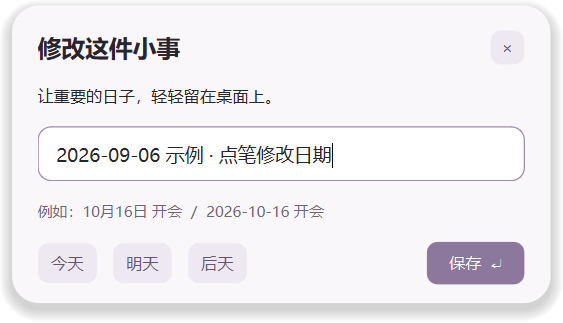
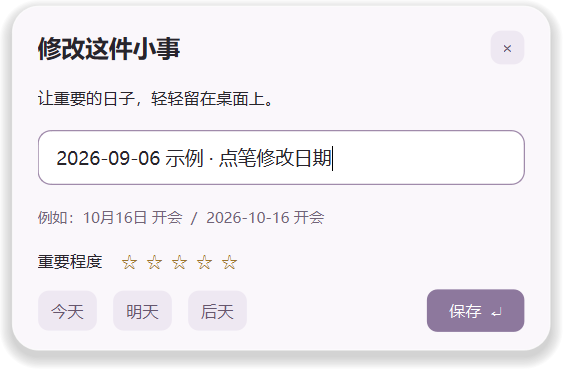
Add editable five-star importance and compact countdown layout

diff --git a/main.py b/main.py
@@ -47,6 +47,8 @@ def load_data():
         raise ValueError("任务文件格式不正确")
     for task in data["tasks"]:
         date.fromisoformat(task["date"])
+        if type(task.get('importance', 0)) is not int or not 0 <= task.get('importance', 0) <= 5:
+            raise ValueError('重要程度必须是0到5颗星')
         if not isinstance(task["title"], str) or not isinstance(task.get("c", 0), int):
             raise ValueError("任务内容格式不正确")
     pos = data.get("pos")
@@ -245,8 +247,46 @@ class CompleteButton(QPushButton):
             p.drawRoundedRect(QRectF(2, 3, 26, 28), 8, 8)
 
 
+class Stars(QWidget):
+    def __init__(self, value=0, on_change=None):
+        super().__init__()
+        self.value = value
+        self.on_change = on_change
+        row = QHBoxLayout(self)
+        row.setContentsMargins(0, 0, 0, 0)
+        row.setSpacing(1)
+        self.buttons = []
+        for number in range(1, 6):
+            button = QPushButton()
+            button.setAutoDefault(False)
+            button.setFixedSize(19, 20)
+            button.setCursor(Qt.PointingHandCursor)
+            button.setCheckable(True)
+            button.setAccessibleName(f'重要程度 {number} 星')
+            button.setToolTip(f'标为 {number} 星；再次点击当前星级可清除')
+            button.setStyleSheet('QPushButton { padding: 0; border: none; border-radius: 4px; background: transparent; color: #9A742F; font-size: 16px; } QPushButton:hover,QPushButton:focus { background: rgba(255,255,255,150); }')
+            button.clicked.connect(lambda checked=False, n=number: self.choose(n))
+            row.addWidget(button)
+            self.buttons.append(button)
+        self.setFixedSize(99, 20)
+        self.set_value(value)
+
+    def set_value(self, value):
+        self.value = value
+        for number, button in enumerate(self.buttons, 1):
+            button.setText('★' if number <= value else '☆')
+            button.setChecked(number <= value)
+
+    def choose(self, number):
+        value = 0 if self.value == number else number
+        if self.on_change is None or self.on_change(value):
+            self.set_value(value)
+        else:
+            self.set_value(self.value)
+
+
 class Card(DragSurface):
-    def __init__(self, task, on_done, on_edit):
+    def __init__(self, task, on_done, on_edit, on_rate):
         super().__init__()
         self.task = task
         self.on_done = on_done
@@ -255,18 +295,24 @@ class Card(DragSurface):
         self._fading = False
         row = QHBoxLayout(self)
         row.setContentsMargins(23, 8, 27, 17)
-        row.setSpacing(10)
+        row.setSpacing(7)
         self.dot = CompleteButton(task["title"])
         self.dot.clicked.connect(self.complete)
         row.addWidget(self.dot)
         self.count = label(size=11.5, bold=True)
-        self.count.setFixedWidth(112)
         row.addWidget(self.count)
         divider = label("│", 10)
         divider.setStyleSheet("color: rgba(75,65,83,45); background: transparent;")
         row.addWidget(divider)
         self.title = label(size=11.5, bold=True)
-        row.addWidget(self.title, 1)
+        content = QWidget()
+        details = QVBoxLayout(content)
+        details.setContentsMargins(0, 0, 0, 0)
+        details.setSpacing(0)
+        details.addWidget(self.title, 0, Qt.AlignLeft)
+        self.stars = Stars(task.get('importance', 0), lambda value: on_rate(self.task, value))
+        details.addWidget(self.stars, 0, Qt.AlignLeft)
+        row.addWidget(content, 1)
         self.edit_button = QPushButton("✎")
         self.edit_button.setFixedSize(24, 30)
         self.edit_button.setAccessibleName(f"编辑：{task['title']}")
@@ -279,10 +325,12 @@ class Card(DragSurface):
 
     def refresh(self):
         countdown = days_text(self.task["date"])
-        self.count.setText(QFontMetrics(self.count.font()).elidedText(countdown, Qt.ElideRight, 112))
+        count_width = min(118, QFontMetrics(self.count.font()).horizontalAdvance(countdown) + 2)
+        self.count.setFixedWidth(count_width)
+        self.count.setText(QFontMetrics(self.count.font()).elidedText(countdown, Qt.ElideRight, count_width))
         self.setToolTip(f"{self.task['title']}\n{countdown} · {self.task['date']}\n双击修改日期和内容")
         self.title.setText(QFontMetrics(self.title.font()).elidedText(self.task["title"], Qt.ElideRight,
-                                                                   max(30, self.width() - 274)))
+                                                                   max(30, self.width() - count_width - 150)))
 
     def mouseDoubleClickEvent(self, event):
         if event.button() == Qt.LeftButton and not self._fading:
@@ -376,7 +424,7 @@ class Group(DragSurface):
             old.deleteLater()
         tasks = sorted(self.data["tasks"], key=lambda task: task["date"])
         for task in tasks:
-            self.cards_lay.addWidget(Card(task, self.remove, self.edit_requested.emit))
+            self.cards_lay.addWidget(Card(task, self.remove, self.edit_requested.emit, self.set_importance))
         if not tasks:
             empty = label("今天也要从容一点。\n点一下 +，记下下一件事", 10.5)
             empty.setFixedHeight(80)
@@ -389,9 +437,11 @@ class Group(DragSurface):
         self.scroll.setFixedHeight(height)
         self.setFixedHeight(67 + height + 48)
 
-    def add(self, iso, title):
+    def add(self, iso, title, importance=0):
         sequence = self.data.get("seq", 0) + 1
-        task = {"id": uuid.uuid4().hex, "date": iso, "title": title, "c": sequence % len(COLORS)}
+        if type(importance) is not int or not 0 <= importance <= 5:
+            raise ValueError('重要程度必须是0到5颗星')
+        task = {"id": uuid.uuid4().hex, "date": iso, "title": title, "c": sequence % len(COLORS), 'importance': importance}
         proposed = dict(self.data, seq=sequence, tasks=self.data["tasks"] + [task])
         if not save_data(proposed):
             return False
@@ -406,13 +456,26 @@ class Group(DragSurface):
             self.data.update(proposed)
         self.rebuild()
 
-    def update_task(self, task, iso, title):
-        replacement = dict(task, date=iso, title=title)
+    def update_task(self, task, iso, title, importance=None):
+        importance = task.get('importance', 0) if importance is None else importance
+        if type(importance) is not int or not 0 <= importance <= 5:
+            raise ValueError('重要程度必须是0到5颗星')
+        replacement = dict(task, date=iso, title=title, importance=importance)
         proposed = dict(self.data, tasks=[replacement if item is task else item for item in self.data['tasks']])
         if not save_data(proposed):
             return False
         self.data.update(proposed)
         self.rebuild()
+        return True
+
+    def set_importance(self, task, value):
+        if type(value) is not int or not 0 <= value <= 5:
+            raise ValueError('重要程度必须是0到5颗星')
+        replacement = dict(task, importance=value)
+        proposed = dict(self.data, tasks=[replacement if item is task else item for item in self.data['tasks']])
+        if not save_data(proposed):
+            return False
+        task['importance'] = value
         return True
 
     def check_day(self):
@@ -455,7 +518,7 @@ class InputBox(QDialog):
         self.setWindowTitle("添加倒计时")
         self.setWindowFlags(Qt.FramelessWindowHint | Qt.Tool | Qt.WindowStaysOnTopHint)
         self.setAttribute(Qt.WA_TranslucentBackground)
-        self.setFixedSize(450, 258)
+        self.setFixedSize(450, 296)
         layout = QVBoxLayout(self)
         layout.setContentsMargins(30, 24, 30, 30)
         layout.setSpacing(12)
@@ -479,6 +542,12 @@ class InputBox(QDialog):
         layout.addWidget(self.edit)
         self.hint = label("例如：10月16日 开会  /  2026-10-16 开会", 9)
         layout.addWidget(self.hint)
+        rating_row = QHBoxLayout()
+        rating_row.addWidget(label('重要程度', 10))
+        self.stars = Stars()
+        rating_row.addWidget(self.stars)
+        rating_row.addStretch()
+        layout.addLayout(rating_row)
         bottom = QHBoxLayout()
         for word in ("今天", "明天", "后天"):
             chip = QPushButton(word)
@@ -516,7 +585,7 @@ class InputBox(QDialog):
             self.hint.setStyleSheet("color: #A55461; background: transparent;")
             self.edit.setFocus()
             return
-        saved = self.on_update(self.editing_task, *task) if self.editing_task is not None else self.on_create(*task)
+        saved = self.on_update(self.editing_task, *task, self.stars.value) if self.editing_task is not None else self.on_create(*task, self.stars.value)
         if saved:
             self.accept()
 
@@ -530,6 +599,7 @@ class InputBox(QDialog):
         area = screen.availableGeometry()
         self.move(area.center() - self.rect().center())
         self.editing_task = task
+        self.stars.set_value(task.get('importance', 0) if task else 0)
         self.heading.setText("修改这件小事" if task else "记下一件小事")
         self.setWindowTitle("编辑倒计时" if task else "添加倒计时")
         self.submit.setText("保存  ↵" if task else "添加  ↵")

diff --git a/test_widget.py b/test_widget.py
@@ -54,6 +54,19 @@ def check():
         assert [c.task["date"] for c in cards] == sorted(t["date"] for t in data["tasks"])
         assert "…" in cards[-1].title.text()
         assert cards[-1].task["title"] in cards[-1].toolTip()
+        # 五星可直接改、清除，保存失败不变；日期排序不受星级影响。
+        original_dates = [c.task['date'] for c in cards]
+        QTest.mouseClick(cards[1].stars.buttons[4], Qt.LeftButton)
+        assert cards[1].stars.value == 5 and cards[1].task['importance'] == 5
+        assert widget.load_data()['tasks'] == data['tasks']
+        QTest.mouseClick(cards[1].stars.buttons[1], Qt.LeftButton)
+        assert cards[1].stars.value == 2
+        with patch.object(widget, 'save_data', return_value=False):
+            QTest.mouseClick(cards[1].stars.buttons[3], Qt.LeftButton)
+        assert cards[1].stars.value == 2 and cards[1].task['importance'] == 2
+        assert [c.task['date'] for c in cards] == original_dates
+        QTest.mouseClick(cards[1].stars.buttons[1], Qt.LeftButton)
+        assert cards[1].stars.value == 0
         group.grab().save(str(Path(__file__).with_name("preview.png")))
         box.popup()
         box.grab().save(str(Path(__file__).with_name("preview-input.png")))
@@ -68,6 +81,7 @@ def check():
         original = card.task
         QTest.mouseClick(card.edit_button, Qt.LeftButton)
         assert box.editing_task is original and box.submit.text().startswith('保存')
+        QTest.mouseClick(box.stars.buttons[3], Qt.LeftButton)
         box.edit.setText('2026-02-30 无效编辑')
         QTest.keyClick(box.edit, Qt.Key_Return)
         assert box.isVisible() and original in data['tasks']
@@ -75,6 +89,7 @@ def check():
         QTest.keyClick(box.edit, Qt.Key_Return)
         assert not box.isVisible() and len(data['tasks']) == 4
         assert group.cards_lay.itemAt(3).widget().task['title'] == '已改日期与内容'
+        assert group.cards_lay.itemAt(3).widget().task['importance'] == 4
         assert group.cards_lay.itemAt(3).widget().count.text().startswith('还有')
         edited = group.cards_lay.itemAt(3).widget().task
         box.popup(edited)

diff --git a/README.md b/README.md
@@ -6,7 +6,7 @@
 
 一个简单、离线、带小猫的 Windows 桌面倒计时浮窗。安装后就能用。
 
-[![下载 Windows 安装包](https://img.shields.io/badge/下载_Windows_安装包-猫猫倒计时-927CA3?style=for-the-badge&logo=windows&logoColor=white)](https://github.com/aijieli1/cat-countdown/releases/latest/download/CatCountdown-Setup-1.0.0-Windows-x64.exe)
+[![下载 Windows 安装包](https://img.shields.io/badge/下载_Windows_安装包-猫猫倒计时-927CA3?style=for-the-badge&logo=windows&logoColor=white)](https://github.com/aijieli1/cat-countdown/releases/latest/download/CatCountdown-Setup-1.1.0-Windows-x64.exe)
 
 [所有版本](https://github.com/aijieli1/cat-countdown/releases) · [反馈问题](https://github.com/aijieli1/cat-countdown/issues) · [English](#english)
 
@@ -16,7 +16,7 @@
 
 ## 下载，安装，就在桌面上
 
-1. **[下载 Windows 安装包](https://github.com/aijieli1/cat-countdown/releases/latest/download/CatCountdown-Setup-1.0.0-Windows-x64.exe)**。
+1. **[下载 Windows 安装包](https://github.com/aijieli1/cat-countdown/releases/latest/download/CatCountdown-Setup-1.1.0-Windows-x64.exe)**。
 2. 双击，点 **安装**。不需要 Python、不需要注册、不需要管理员权限。
 3. 猫猫和 **三条明确标注“示例”的任务** 出现在桌面上。直接改成自己的事情就好。
 
@@ -29,6 +29,7 @@
 | 你想做什么 | 怎么操作 |
 | --- | --- |
 | 记下一件事 | 点 **＋**，或者按 **Ctrl + Alt + T** |
+| 标记重要程度 | 点卡片上的五颗星，随时改；再点当前星级可清除。编辑窗口也能设置，排序仍按日期。 |
 | 改时间、改内容 | 点卡片右侧 **✎**，或双击卡片；示例也一样可改 |
 | 完成一件事 | 点左侧圆圈，轻轻淡出 |
 | 换个位置 | 拖动猫猫或卡片，下次打开还在这里 |
@@ -115,4 +116,4 @@ ISCC.exe installer.iss
 - Drag to move; launch again to bring the existing window back to the main screen.
 - Windows 10/11 x64. The current interface is in Chinese.
 
-[Download the Windows installer](https://github.com/aijieli1/cat-countdown/releases/latest/download/CatCountdown-Setup-1.0.0-Windows-x64.exe) · [Report a bug](https://github.com/aijieli1/cat-countdown/issues)
+[Download the Windows installer](https://github.com/aijieli1/cat-countdown/releases/latest/download/CatCountdown-Setup-1.1.0-Windows-x64.exe) · [Report a bug](https://github.com/aijieli1/cat-countdown/issues)

diff --git a/RELEASE_NOTES.md b/RELEASE_NOTES.md
@@ -1,23 +1,8 @@
-# 🐾 猫猫倒计时 v1.0.0
+# 猫猫倒计时 v1.1.0
 
-把重要的日子，轻轻放在桌面上。
+- 新增五颗星重要程度：卡片直接点选，也能在新增/编辑窗口设置。
+- 随时改为1～5星，再点当前星级清除；已有任务默认未标星。
+- 收紧倒计时和分隔线间距，星级放在事件下方，给标题更多空间。
+- 继续按日期从近到远排序，升级保留任务和位置。
 
-**普通用户只需下载下方 `CatCountdown-Setup-1.0.0-Windows-x64.exe`，双击后点“安装”。无需下载源代码，也无需安装 Python。**
-
-### 打开就能用
-
-- 三条明确标注“示例”的任务，今天、明天、一周后，直接改成自己的事情。
-- 点 ✎ 或双击卡片，自由修改日期和内容；点圆圈完成，点 ＋ 添加。
-- 柔色半透明卡片与趴睡小猫，拖动即可移动，自动记住位置。
-- 再次双击桌面图标，会找回现有窗口，不再只提示“已运行”。
-- 离线、本地保存、无需登录；开机启动可在开始菜单里开启。
-- 免管理员权限安装，卸载保留个人任务。
-
-### 系统与验证
-
-- Windows 10（1809 或更新）/ Windows 11，Intel/AMD x64。暂不提供 macOS / Linux 版本。
-- 已实际验证安装、首次示例、编辑、完成、重启恢复、运行中更新、卸载保留数据。
-- 全局快捷键已验证 Windows 注册及系统消息处理；未进行实际重启登录测试。
-- 当前安装包未签名，Windows 可能提示未知发布者。请认准本仓库 Releases；可用 `SHA256SUMS.txt` 校验下载文件。
-
-觉得简单、顺手，欢迎在仓库点个 **Star ⭐**。有问题直接开 Issue，附上系统版本和复现步骤即可。
+下载 `CatCountdown-Setup-1.1.0-Windows-x64.exe`，双击安装即可升级。Windows 10/11 x64，无需Python。当前安装包未签名，可能出现未知发布者提示。
